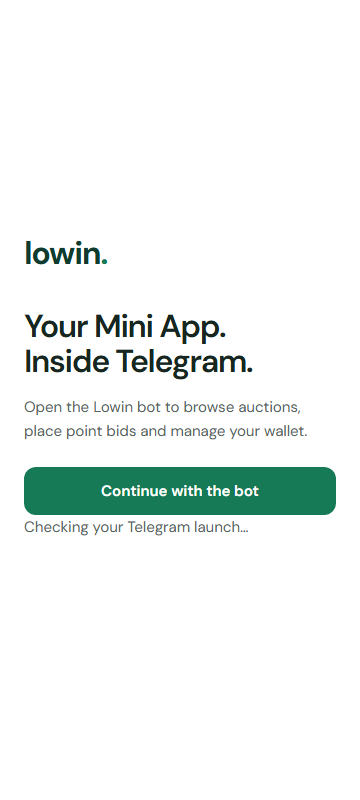
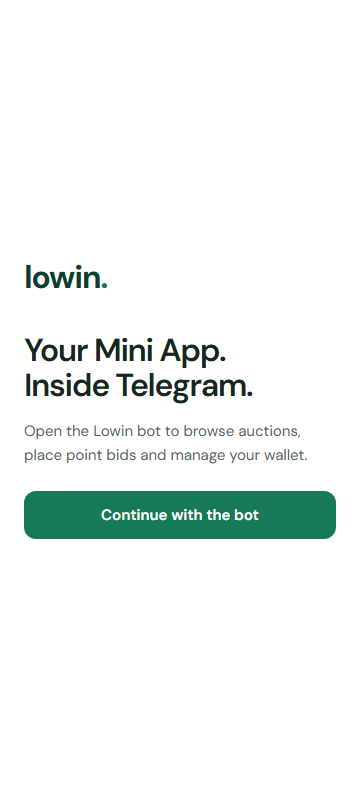
a

Changed region(s): [[0.0611, 0.2812, 0.9472, 0.6875]]

diff --git a/src/components/telegram-entry.tsx b/src/components/telegram-entry.tsx
@@ -3,6 +3,6 @@ import {useEffect} from 'react';
 import {useTelegram} from './telegram-provider';
 export function TelegramEntry(){
   const {status,botUrl,error,retry}=useTelegram();
-  useEffect(()=>{if(status==='authenticated'&&window.Telegram?.WebApp?.initData)window.location.replace('/')},[status]);
+  useEffect(()=>{if(status==='authenticated'&&window.Telegram?.WebApp?.initData)window.location.replace('/'+window.location.hash)},[status]);
   return <main id="main" className="telegram-entry"><span className="wordmark">lowin<span>.</span></span><h1>Your Mini App.<br/>Inside Telegram.</h1><p>Open the Lowin bot to browse auctions, place point bids and manage your wallet.</p>{botUrl?<a className="primary-button" href={botUrl}>Continue with the bot</a>:<p role="status">The bot link is not configured yet. Please try again later.</p>}{status==='loading'&&<p role="status">Checking your Telegram launch…</p>}{error&&<><p role="alert">{error}</p><button className="text-link" onClick={retry}>Retry connection</button></>}</main>
 }

diff --git a/docs/phase6-release.md b/docs/phase6-release.md
@@ -2,7 +2,7 @@
 
 **Release decision: NO GO for real-money funding or deployment.** The application has an explicit production credit interlock. Only an opted-in, disposable loopback `_test` environment can create or verify funding intents. No remote migration, live transfer, production activation or deployment was performed.
 
-The existing Mini App Home remains the landing page. White surfaces, flat controls, selected green gradients, integer-point wallets and the five-item bottom navigation are retained.
+The existing Mini App Home remains the landing page inside Telegram. Ordinary browser visits receive only a Continue with the bot entry screen; staff login remains separate. White surfaces, flat controls, selected green gradients, integer-point wallets and the five-item bottom navigation are retained.
 
 ## Provider contract reviewed
 
@@ -18,6 +18,7 @@ New migrations:
 
 - `202609280001_verified_topups`: extends the existing `TopUpIntent`, adds append-only `PaymentPolicy`, `PaymentClaim`, `PaymentAttempt`, and `PaymentStatementEntry`; freezes intent identity/quote/reference; enforces commit-time credit/claim/journal matching; globally unique `(channel, reference)`; private-table RLS and anon/authenticated revocation.
 - `202609280002_scheduler_indexes`: reverse favorite lookup plus partial due-outbox and pending-auction indexes. The preceding ten migrations are unchanged.
+- `202609280003_telegram_launch_boundary`: nullable exact-session Telegram launch provenance. Existing sessions are not retroactively trusted; reopen through the bot.
 
 Policies are immutable versions with receiving account, holder, rational points-per-ETB-cents quote, bounds, terms and review reference. New versions affect only new intents. Intent creation validates the latest version, converts integer cents exactly, and rejects fractions of a point. Requests expire after 30 minutes. A user may create eight requests per hour; a request permits six verification attempts and three scans. Staff and suspended accounts cannot create funding requests.
 
@@ -83,7 +84,7 @@ Database migrations use the migration owner via the direct URL. Runtime must use
 | Production email | Local HTTP sink only. Need chosen provider credentials, verified sender/domain, delivery/recovery test inbox and bounce/failure monitoring. |
 | Telegram clients/delivery | Browser signatures and intercepted bot transport only. Need real Android/iOS accounts/devices, HTTPS bot launch and opt-in private bot delivery checks. |
 | Supabase roles/RLS | No remote access changes. Need staging Supabase project, migration/runtime roles, grants and RLS/trigger privileges reviewed and exercised. |
-| Production HTML headers | Local build is not hosted HTTP evidence. Need HTTPS staging ingress/hosting access and authenticated/guest cache/security-header captures. |
+| Production HTML headers | Local production-mode HTTP checks passed for guest redirects, bot entry, private API rejection and staff login (no-store, nosniff, no-referrer). Hosted HTTPS ingress and authenticated HTML remain unverified; need staging hosting access and authenticated/guest captures. |
 | Load/capacity | Isolated baseline only; test target-concurrency/auction-participant volumes with staging-equivalent CPU, memory, PostgreSQL pool/roles and worker count before release. |
 | Backups/keys | Disposable local dump/restore drill only. Need actual encrypted backup retention, restoration access, off-host keys and production recovery objectives. |
 | Independent staff-auth review | Implementation/regression tests are not independent review. Need reviewer sign-off for credential/MFA/session binding, recovery and new capabilities. |
@@ -91,10 +92,65 @@ Database migrations use the migration owner via the direct URL. Runtime must use
 
 ## Concrete owner-reviewed rollout step
 
-After the above artifacts and decisions exist, prepare one reviewed release change to the production interlock, approved settings and runtime role grants. In a separate staging project: restore a sanitized database, apply the twelve migrations using the migration role, run the entire opt-in suite with the runtime role where appropriate, verify no anon/authenticated access to private tables, run real staff-email and Telegram smoke tests, and capture production HTTP headers. Drill stopping/restarting all workers and interrupted verification leases; reconcile before and after. Check statement matching against small, owner-approved real transfers before any wider activation. No such transfer is authorized or performed by this implementation prompt.
+After the above artifacts and decisions exist, prepare one reviewed release change to the production interlock, approved settings and runtime role grants. In a separate staging project: restore a sanitized database, apply the thirteen migrations using the migration role, run the entire opt-in suite with the runtime role where appropriate, verify no anon/authenticated access to private tables, run real staff-email and Telegram smoke tests, and capture production HTTP headers. Drill stopping/restarting all workers and interrupted verification leases; reconcile before and after. Check statement matching against small, owner-approved real transfers before any wider activation. No such transfer is authorized or performed by this implementation prompt.
 
 Monitor failed/stale settlements, outbox age/terminal delivery codes, Check.et 401/402/429/outages, pending requests over one hour, duplicate claims, statement mismatches and any reconciliation drift. Any drift is a stop condition. Pause new channel versions, preserve existing intent/receipt history, disable the release interlock and investigate; do not roll back financial history or replay bank credits manually. Start with a small, capped cohort and a named payment operator watching the first reconciliation cycle. Owner approval of this concrete release packet is the final step, not implied by passing tests.
 
 ## Validation results
 
-Final commands, exact test counts, screenshots, load/restore evidence and remaining limitations are appended after the clean regression completes.
+All database names below are disposable loopback targets at `127.0.0.1:55439`, user `lowin_test`; no password or live credentials were used. The configured remote `.env` Supabase target was not migrated, seeded or changed.
+
+- Combined `npm test`: **14 files, 189 passed, zero skipped**, 108.47 seconds (`.local/phase6-full-complete.log`). Core, bid, settlement, personal, admin, operations, payment and Telegram-bound-session coverage ran with all opt-in variables.
+- Payment/entry browser regression: **6 passed, zero skipped**, 56.6 seconds (`npx playwright test --config playwright.payments.config.ts`, `.local/phase6-payment-browser-complete.log`). Covers 360/430px wallet and bot entry, 1366/834px admin queue/detail/settings/statements; blocked direct page/API access, visible bot link, and staff entry separation.
+- Final earlier-feature Playwright regression: **19 passed, one intentional duplicate 360px carousel skip**, 2.4 minutes (`.local/phase6-browser-regression-complete.log`). Total distinct browser cases: **25 passed, one skipped**. Entry-only recapture after waiting for launch-check completion: 2 passed, 15.7 seconds.
+- `npm run typecheck`: passed. `npx next build`: passed; production compilation 12.6 seconds, TypeScript 12.9 seconds. Final `npx prisma generate`, `npm run typecheck` and post-entry-fragment `npx next build` also passed. Prisma generation initially hit Windows DLL locking from the running development server; it passed after a brief server stop, then the development server was restored.
+- **13 migrations actually applied** to each of seven `lowin_6_complete_{core,bid,settlement,personal,admin,ops,payments}_test` databases, and the final isolated browser databases. No remote application.
+- Final reconciliation across seven database snapshots: **66 wallets, 343 journals, 29 settlements, 6 verified test credits; zero posting/projection, hold, fee/refund, settlement or payment drift** (`.local/phase6-reconciliation.log`).
+- Load baseline: **100 participants/bids**, bid batch 3.802 seconds, scheduler 16.29 ms, atomic settlement **1.867 seconds** against the 120-second transaction limit, 301 outbox rows processed in 1.457 seconds. **200 mocked sends, zero network sends, zero drift** (`.local/phase6-load.log`). The small-fixture EXPLAIN used the partial `Outbox_pending_due_idx`; this is not production-scale capacity or query-plan proof.
+- PostgreSQL 17 `pg_dump --format=custom` of `lowin_6_load2_test`, `pg_restore --no-owner --exit-on-error` into `lowin_6_restore_test`: restored reconciliation passed, zero drift (`.local/phase6-backup.dump`, `.local/phase6-restore.log`). Those load/restore databases predate only the nonfinancial session-provenance migration.
+- Contact key rotation: one old-key encrypted local contact re-encrypted and verified with the new independent test key (`.local/phase6-key-rotation.log`). Production rotation/recovery is still blocked on owner key custody and staging.
+- `npx tsx scripts/staging-http-check.ts`: **five local production-mode HTTP checks passed**, using disposable DB and generated nonsecret configuration; `/` and `/wallet` redirect, `/telegram` and `/admin/login` render, `/api/me` rejects. Each returned no-store, nosniff and no-referrer. No hosted TLS/authenticated cache claim (`.local/phase6-production-headers.log`).
+- OCR uses real local Tesseract in database/browser tests; Check.et transport remains mocked. Tests include ambiguous/blank fallback, duplicate image/reference, static magic-byte/dimension/size validation, and memory-only input cleanup.
+- Crash/retry evidence is from transaction/lease/outbox tests and subprocess settlement crash tests. An actual production worker supervisor stop/restart drill remains unverified.
+- Independent UI verdict: **ship for the three scored payment fixes** (header balance, immutable accepted receipt presentation, statement empty state). All 16 payment captures reviewed. Telegram entry and security were outside that review; entry has separate browser assertions and builder inspection. No independent staff-auth security review is claimed.
+
+Reproduce the database run with these variables set before `npm test`:
+
+```powershell
+$base = 'postgresql://lowin_test@127.0.0.1:55439/'
+$env:TEST_DATABASE_URL = $base + 'lowin_6_complete_core_test'
+$env:BID_TEST_DATABASE_URL = $base + 'lowin_6_complete_bid_test'
+$env:SETTLEMENT_TEST_DATABASE_URL = $base + 'lowin_6_complete_settlement_test'
+$env:PERSONAL_TEST_DATABASE_URL = $base + 'lowin_6_complete_personal_test'
+$env:ADMIN_TEST_DATABASE_URL = $base + 'lowin_6_complete_admin_test'
+$env:OPS_TEST_DATABASE_URL = $base + 'lowin_6_complete_ops_test'
+$env:PAYMENT_TEST_DATABASE_URL = $base + 'lowin_6_complete_payments_test'
+$env:DATABASE_URL = $env:TEST_DATABASE_URL
+$env:DIRECT_URL = $env:DATABASE_URL
+npm test
+```
+
+Create fresh `_test` databases for a clean rerun; immutable fixtures intentionally are not all reusable. Browser runs likewise require their own freshly migrated/seeded disposable database. The payment browser tests create their own policy fixtures.
+
+The original development server was restored with the unchanged `.env`. Its remote-backed Telegram sign-in returned HTTP 503 during the final check. No remote diagnostic/migration was performed to attribute that failure; this is not a verified live Telegram environment. The new migrations are applied only to disposable databases.
+
+## Telegram-only boundary
+
+`src/proxy.ts` gates player pages and APIs before rendering; the Mini App layout and private data helpers repeat session authorization. Only the signed Telegram login handler can stamp `session.telegramLaunchId` after matching the issued session's stored Telegram identity. Guest, old unbound, mismatched, expired/revoked and staff sessions cannot open player APIs. No user-agent, host, forwarded header, `initDataUnsafe` or ordinary website credential cookie grants Telegram proof. The client also requires Telegram launch data before showing the Mini App shell. The launch fragment stays in the browser when continuing to Home.
+
+The only development preview exception requires the existing explicit local identity configuration, a loopback database and matching localhost-only URLs; its actual test login still requires the private operator key. Public/ngrok/production configuration cannot use that exception. Session cookies remain bearer credentials: neither the browser SDK nor HTTP can cryptographically attest a physical Telegram client against theft/replay of an already valid session. Protect session cookies and verify real client lifecycle behavior before release.
+
+## Changed files and capture inventory
+
+This working tree contains earlier uncommitted phases. Phase 6 changes are concentrated in:
+
+- Schema/migrations: `prisma/schema.prisma`, the three `20260928000*` migration directories above.
+- Payment domain: `src/modules/payments/{provider,service,admin,correction,ocr}.ts`; `scripts/receipt-ocr.cjs`.
+- HTTP and auth: `src/app/api/wallet/{top-ups,scan}/route.ts`, `src/app/api/admin/payments/[[...path]]/route.ts`, `src/modules/auth/{handler,mini-access,private-api}.ts`, `src/app/api/me/route.ts`, bid route session guard, top-up transaction session recheck, `src/proxy.ts`.
+- Player UI: `src/components/{wallet-funding,wallet-funding-preview,telegram-provider,telegram-entry,app-shell}.tsx`, `src/app/(mini)/{layout,wallet/page}.tsx`, `src/app/telegram/page.tsx`, `src/app/globals.css`.
+- Staff UI/routing: `src/components/{admin-payments,admin-shell,staff-login}.tsx`, admin catch-all and `src/app/admin/admin.css`.
+- Operations: `src/modules/fulfillment/crypto.ts`, fulfillment contact API/admin operations, `src/modules/notifications/service.ts`, `scripts/{reconcile,rotate-delivery-keys,staging-load,staging-http-check,payment-test-sink}.ts`.
+- Configuration/tests: `next.config.ts`, `package.json`, lockfile, `.env.example`, `playwright.payments.config.ts`, `tests/payments.test.ts`, `tests/telegram-entry.test.ts`, `tests/payments-browser/{mobile,admin}.spec.ts`.
+- Documentation: this report, `docs/phase6-role-review.sql`, `docs/phase6-smoke-plan.md`, Owner runbook supplement, `DESIGN.md`, `PRODUCT.md`, `.impeccable/design.json`.
+
+18 new screenshots in `docs/screenshots`: `phase6-wallet-{quote,scan,receipt,fallback}-mobile-{360,430}.png`; `phase6-{top-ups,payment-detail,payment-settings,payment-statements}-admin-{laptop,tablet}.png`; `phase6-telegram-entry-mobile-{360,430}.png`. They use nonsecret, non-payable DEMO fixtures. Existing regression screenshots were refreshed separately.

diff --git a/docs/owner-runbook.md b/docs/owner-runbook.md
@@ -79,3 +79,14 @@ Review `/admin/jobs` and `/admin/notifications` for FAILED/PENDING delivery. 429
 `WALLET_TEST_PREVIEW=true` reveals only synthetic, explicitly non-payable Telebirr/CBE references on isolated local `_test` databases. Production shows accounts unconfigured. Do not request transfers; no conversion policy, screenshot intake, OCR or payment verification exists until Phase 6.
 
 Production email, real Telegram clients/delivery, remote Supabase runtime roles/RLS, production HTML headers, independent auth security review, load testing, monitoring and backup/restore remain release checks. The remote `.env` database is unchanged.
+
+
+## Phase 6 supplement: verified funding and Telegram-only entry
+
+See [the Phase 6 release decision](phase6-release.md) for exact evidence and blocked owner inputs. Ordinary domain visits now open **Continue with the bot**. The player app requires an exact session issued from verified Telegram launch data; `/admin/login` remains the separate staff entry. Apply the new session migration only through the reviewed release process; old sessions must reopen through the bot. No remote migration was performed here.
+
+The Phase 5B preview-only paragraph above is historical. Phase 6 implements private OCR/reference verification and payment investigation on explicitly opted-in disposable local/test databases. **Production crediting remains disabled. Do not send real funds.** Only reviewed versioned settings can enable test channels. Owner changes receiving accounts/quotes at `/admin/settings/payments` with fresh MFA and exact-change review. Saved intents retain their original account and quote.
+
+Payments operators review `/admin/top-ups`, notes, bounded verification retries and incidents. Case notes/resolution never mint points. Record independently reviewed daily bank evidence at `/admin/top-ups/statements`; unmatched/mismatched entries require investigation, not manual credit. Inspect any duplicate claim, outage/quota failure, aged pending request or reconciliation drift before continuing. The exact-credit reversal command is internal only, requires fresh Owner MFA and evidence, and refuses to consume held/spent points or overdraw. There is no generic balance editor.
+
+Use `npm run wallet:reconcile` under the explicitly selected runtime database. Run contact key rotation only with recoverable old/new keys and a reviewed maintenance plan; `scripts/rotate-delivery-keys.ts` is intentionally limited to disposable loopback tests. The provider/receiver/quote/policy/legal review, production email, Telegram Android/iOS, Supabase runtime roles, hosted headers, independent staff-auth review and production-volume recovery/load exercises remain release gates. No deployment was authorized or performed.
